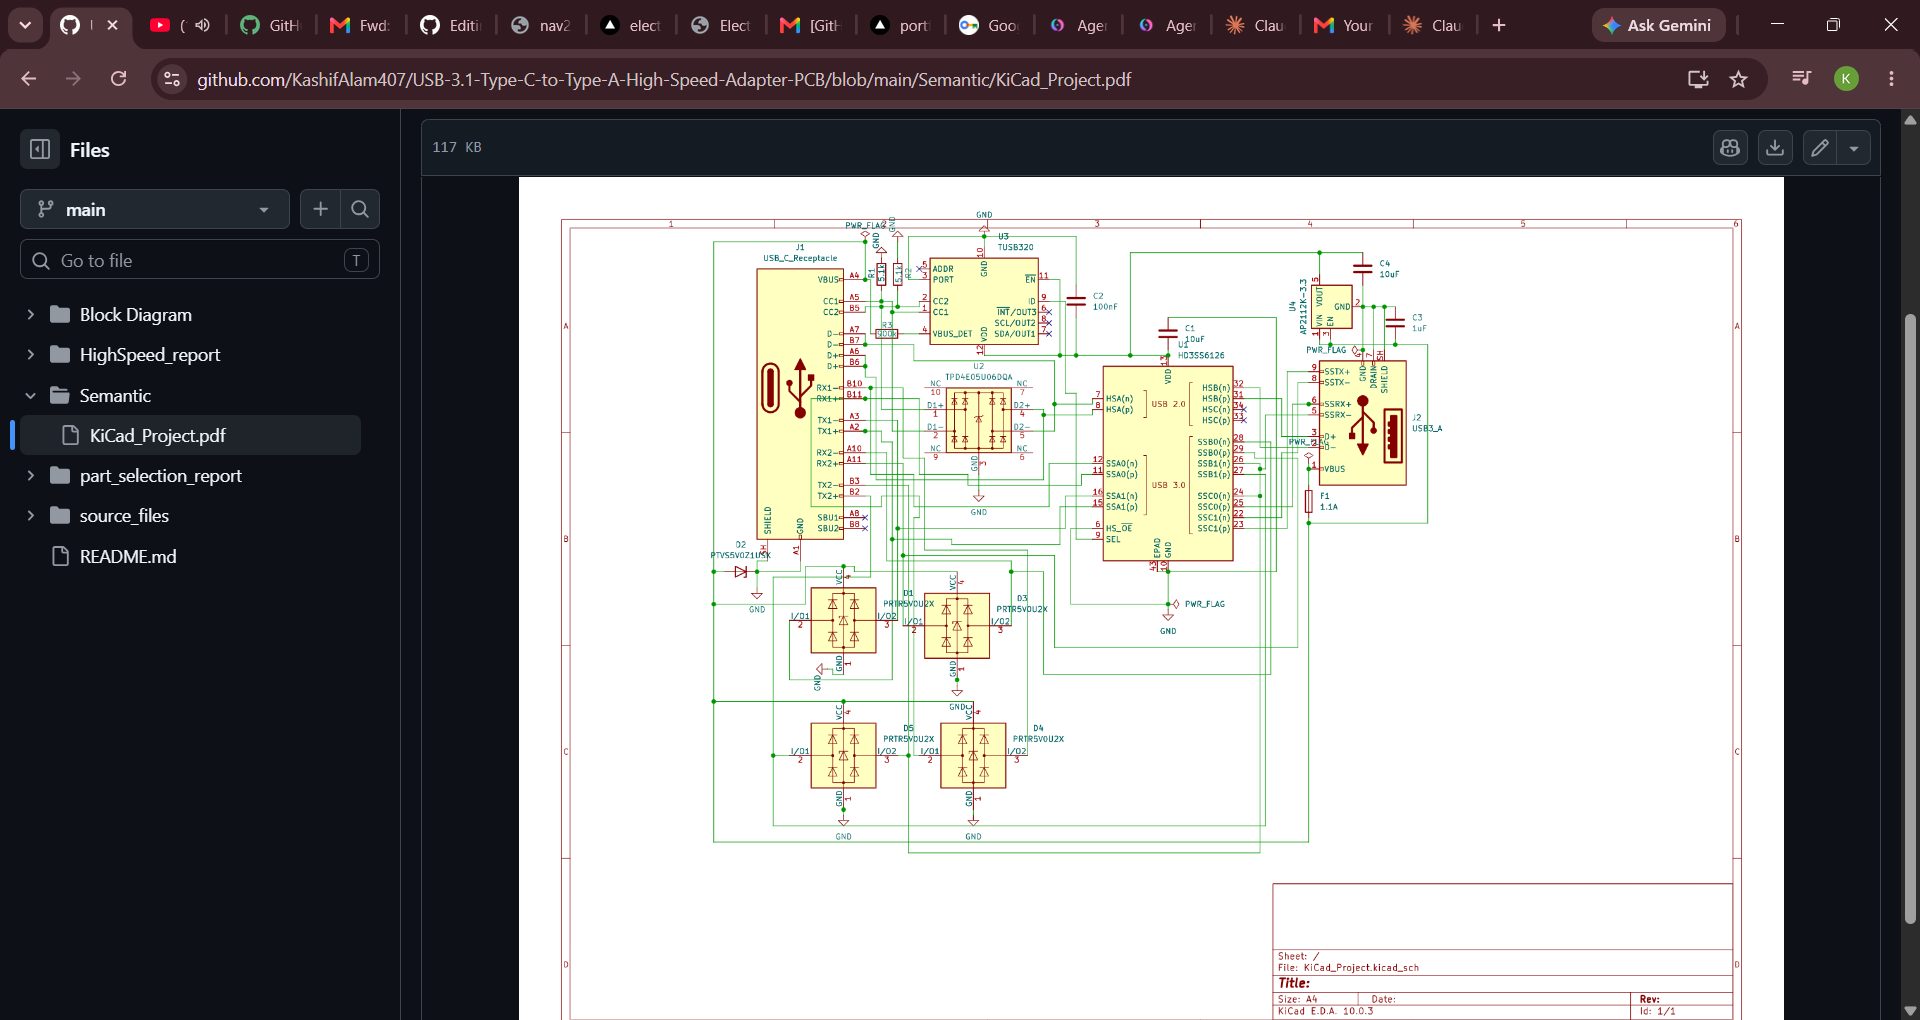
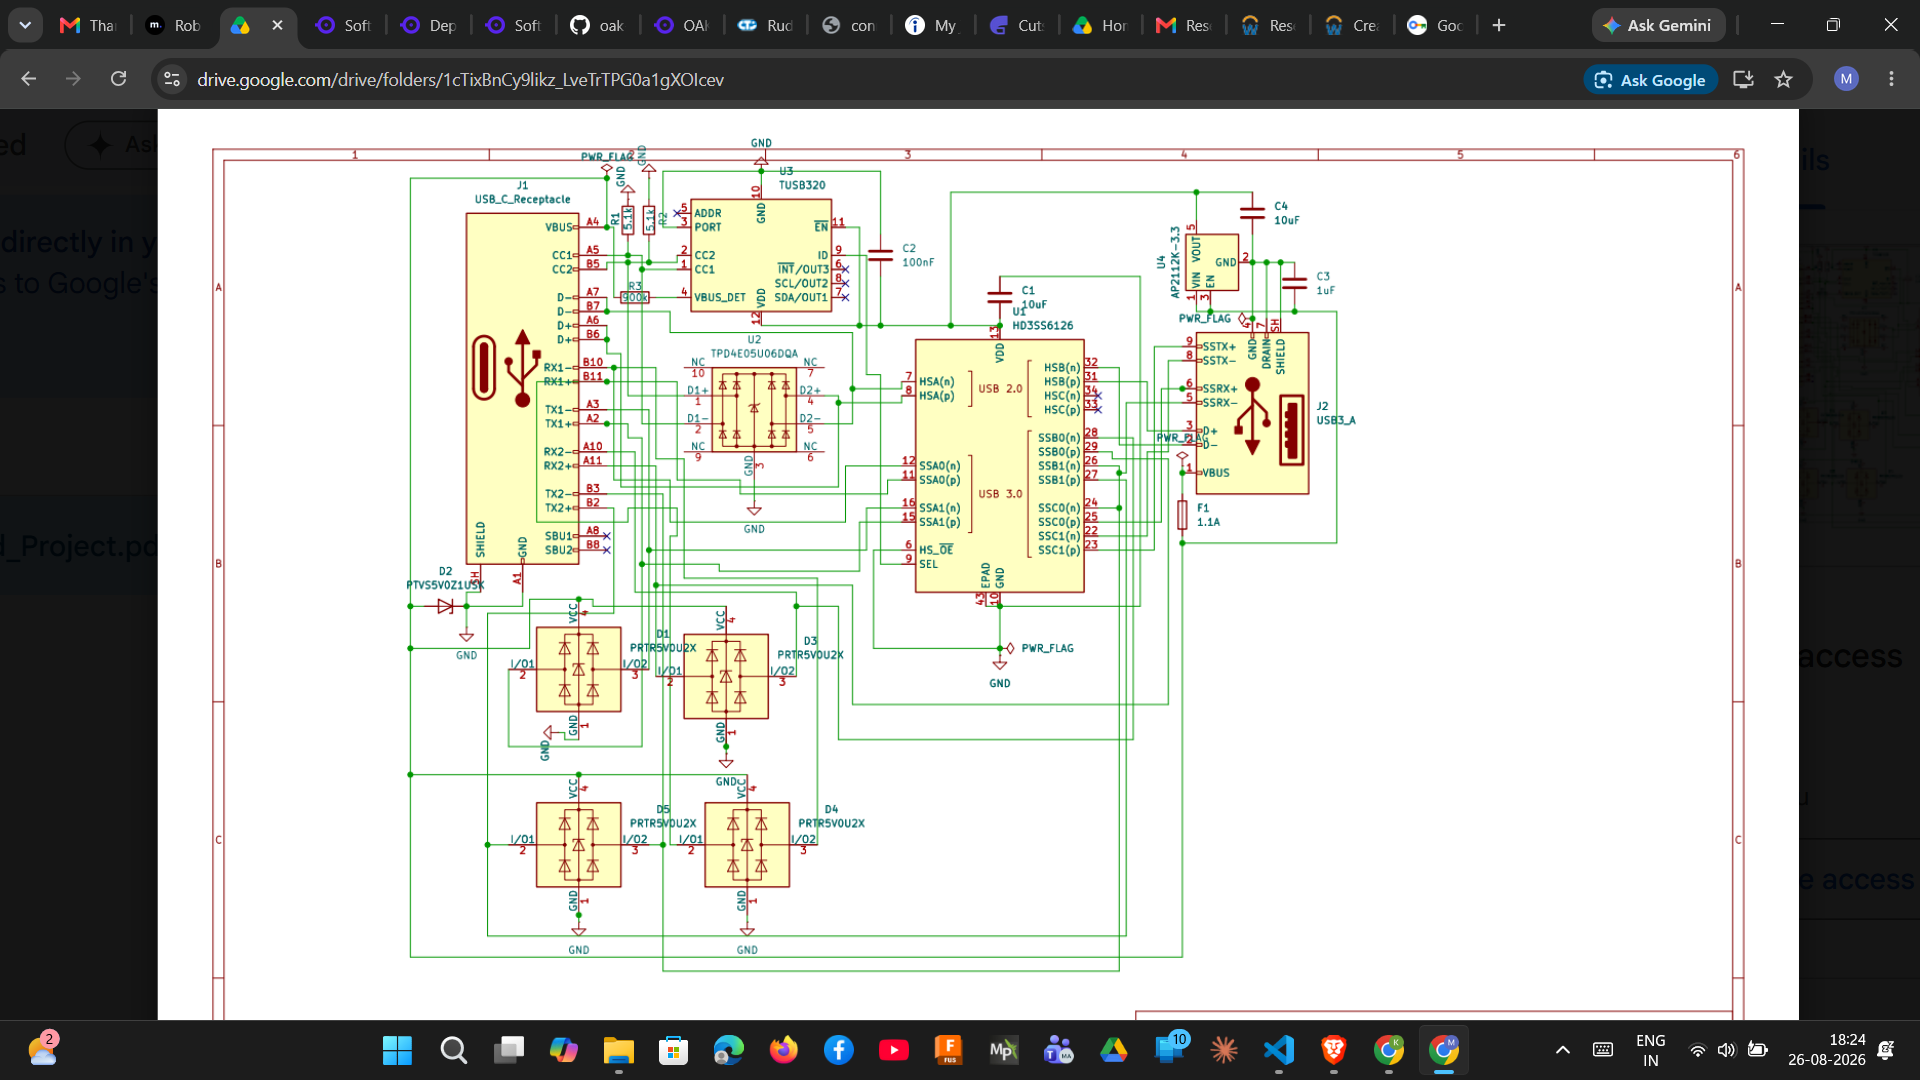
Project Added

diff --git a/index.html b/index.html
@@ -555,7 +555,8 @@
                     </a>
                 </div>
                 <div class="video-box" style="border: 2px solid #ff0000;">
-                    <iframe src="https://www.youtube.com/embed/vVLbhHFg1N0?autoplay=1&mute=1" frameborder="0" allow="autoplay; encrypted-media" allowfullscreen>
+                    <iframe src="https://www.youtube.com/embed/vVLbhHFg1N0?autoplay=1&mute=1" frameborder="0"
+                        allow="autoplay; encrypted-media" allowfullscreen>
 
                     </iframe>
                 </div>
@@ -592,7 +593,9 @@
                 </div>
 
                 <div class="video-box">
-                    <iframe src="https://www.youtube.com/embed/y7erTK9Ahqo?autoplay=1&mute=1" frameborder="0" allow="autoplay; encrypted-media" allowfullscreen>
+                    <iframe
+                        src="https://www.youtube.com/embed/y7erTK9Ahqo?enablejsapi=1&mute=1&loop=1&playlist=y7erTK9Ahqo"
+                        frameborder="0" allow="autoplay; encrypted-media" allowfullscreen>
                     </iframe>
                 </div>
             </div>
@@ -634,8 +637,9 @@
                 </div>
 
                 <div class="video-box">
-                    <iframe src="https://www.youtube.com/embed/NE7eeG-f2A8?autoplay=1&mute=1" frameborder="0"
-                        allow="autoplay; encrypted-media" allowfullscreen>
+                    <iframe
+                        src="https://www.youtube.com/embed/NE7eeG-f2A8?enablejsapi=1&mute=1&loop=1&playlist=NE7eeG-f2A8"
+                        frameborder="0" allow="autoplay; encrypted-media" allowfullscreen>
                     </iframe>
                 </div>
 
@@ -667,8 +671,9 @@
                 </div>
 
                 <div class="video-box">
-                    <iframe src="https://www.youtube.com/embed/F9Jmkpb1PWk?autoplay=1&mute=1" frameborder="0"
-                        allow="autoplay; encrypted-media" allowfullscreen>
+                    <iframe
+                        src="https://www.youtube.com/embed/F9Jmkpb1PWk?enablejsapi=1&mute=1&loop=1&playlist=F9Jmkpb1PWk"
+                        frameborder="0" allow="autoplay; encrypted-media" allowfullscreen>
                     </iframe>
                 </div>
             </div>
@@ -700,8 +705,9 @@
                 </div>
 
                 <div class="video-box">
-                    <iframe src="https://www.youtube.com/embed/kwIiEaSYuWc?autoplay=1&mute=1" frameborder="0"
-                        allow="autoplay; encrypted-media" allowfullscreen>
+                    <iframe
+                        src="https://www.youtube.com/embed/kwIiEaSYuWc?enablejsapi=1&mute=1&loop=1&playlist=kwIiEaSYuWc"
+                        frameborder="0" allow="autoplay; encrypted-media" allowfullscreen>
                     </iframe>
                 </div>
             </div>
@@ -813,8 +819,9 @@
                 </div>
 
                 <div class="video-box">
-                    <iframe src="https://www.youtube.com/embed/xP2obVV_vCo?autoplay=1&mute=1" frameborder="0"
-                        allow="autoplay; encrypted-media" allowfullscreen>
+                    <iframe
+                        src="https://www.youtube.com/embed/xP2obVV_vCo?enablejsapi=1&mute=1&loop=1&playlist=xP2obVV_vCo"
+                        frameborder="0" allow="autoplay; encrypted-media" allowfullscreen>
                     </iframe>
                 </div>
             </div>
@@ -845,8 +852,9 @@
                 </div>
 
                 <div class="video-box">
-                    <iframe src="https://www.youtube.com/embed/1NOkW2mW9GI?autoplay=1&mute=1" frameborder="0"
-                        allow="autoplay; encrypted-media" allowfullscreen>
+                    <iframe
+                        src="https://www.youtube.com/embed/1NOkW2mW9GI?enablejsapi=1&mute=1&loop=1&playlist=1NOkW2mW9GI"
+                        frameborder="0" allow="autoplay; encrypted-media" allowfullscreen>
                     </iframe>
                 </div>
             </div>
@@ -903,8 +911,9 @@
                     </div>
                 </div>
                 <div class="video-box">
-                    <iframe src="https://www.youtube.com/embed/WnYllgo_UbY?autoplay=1&mute=1" frameborder="0"
-                        allow="autoplay; encrypted-media" allowfullscreen>
+                    <iframe
+                        src="https://www.youtube.com/embed/WnYllgo_UbY?enablejsapi=1&mute=1&loop=1&playlist=WnYllgo_UbY"
+                        frameborder="0" allow="autoplay; encrypted-media" allowfullscreen>
 
                     </iframe>
                 </div>
@@ -930,7 +939,9 @@
                     </div>
                 </div>
                 <div class="video-box">
-                    <iframe src="https://www.youtube.com/embed/DreNGpiPHi4?autoplay=1&mute=1" frameborder="0" allow="autoplay; encrypted-media" allowfullscreen>
+                    <iframe
+                        src="https://www.youtube.com/embed/DreNGpiPHi4?enablejsapi=1&mute=1&loop=1&playlist=DreNGpiPHi4"
+                        frameborder="0" allow="autoplay; encrypted-media" allowfullscreen>
 
                     </iframe>
                 </div>
@@ -950,7 +961,9 @@
                         Camera, Bldc Motor, Flysky Transmitter and Receiver, Mission Planner</div>
                 </div>
                 <div class="video-box">
-                    <iframe src="https://www.youtube.com/embed/h1zeduMmIFs?autoplay=1&mute=1" frameborder="0" allow="autoplay; encrypted-media" allowfullscreen>
+                    <iframe
+                        src="https://www.youtube.com/embed/h1zeduMmIFs?enablejsapi=1&mute=1&loop=1&playlist=h1zeduMmIFs"
+                        frameborder="0" allow="autoplay; encrypted-media" allowfullscreen>
 
                     </iframe>
                 </div>
@@ -970,7 +983,9 @@
                         Lightweight Thermocol Sheet, Bldc Motor, Transmitter and Receiver</div>
                 </div>
                 <div class="video-box">
-                    <iframe src="https://www.youtube.com/embed/Fey8GfWkuLo?autoplay=1&mute=1" frameborder="0" allow="autoplay; encrypted-media" allowfullscreen></iframe>
+                    <iframe
+                        src="https://www.youtube.com/embed/Fey8GfWkuLo?enablejsapi=1&mute=1&loop=1&playlist=Fey8GfWkuLo"
+                        frameborder="0" allow="autoplay; encrypted-media" allowfullscreen></iframe>
                 </div>
             </div>
             <div class="project-row alt">
@@ -993,7 +1008,9 @@
                     </div>
                 </div>
                 <div class="video-box">
-                    <iframe src="https://www.youtube.com/embed/12zZZx3z0V8?autoplay=1&mute=1" frameborder="0" allow="autoplay; encrypted-media" allowfullscreen></iframe>
+                    <iframe
+                        src="https://www.youtube.com/embed/12zZZx3z0V8?enablejsapi=1&mute=1&loop=1&playlist=12zZZx3z0V8"
+                        frameborder="0" allow="autoplay; encrypted-media" allowfullscreen></iframe>
                 </div>
             </div>
             <div class="project-row">
@@ -1009,7 +1026,10 @@
                     <div class="tech-stack">Mechanical Stack: High-torque Gearbox system, Bldc Motor</div>
                 </div>
                 <div class="video-box">
-                    <iframe src="https://www.youtube.com/embed/zDB8eZuOE1s?autoplay=1&mute=1" frameborder="0" allow="autoplay; encrypted-media" allowfullscreen></iframe>
+                    <iframe
+                        src="https://www.youtube.com/embed/zDB8eZuOE1s?enablejsapi=1&mute=1&loop=1&playlist=zDB8eZuOE1s"
+                        frameborder="0" allow="autoplay; encrypted-media" allowfullscreen>
+                    </iframe>
                 </div>
             </div>
         </section>
@@ -1074,6 +1094,49 @@
                 icon.className = 'fas fa-sun';
             }
         }
+
+        document.addEventListener("DOMContentLoaded", function () {
+
+            const videos = document.querySelectorAll(".video-box iframe");
+
+            const observer = new IntersectionObserver((entries) => {
+
+                entries.forEach(entry => {
+
+                    const iframe = entry.target;
+
+                    if (entry.isIntersecting) {
+
+                        iframe.contentWindow.postMessage(
+                            JSON.stringify({
+                                event: "command",
+                                func: "playVideo",
+                                args: []
+                            }),
+                            "*"
+                        );
+
+                    } else {
+
+                        iframe.contentWindow.postMessage(
+                            JSON.stringify({
+                                event: "command",
+                                func: "pauseVideo",
+                                args: []
+                            }),
+                            "*"
+                        );
+                    }
+
+                });
+
+            }, {
+                threshold: 0.5
+            });
+
+            videos.forEach(video => observer.observe(video));
+
+        });
     </script>
 </body>
 
